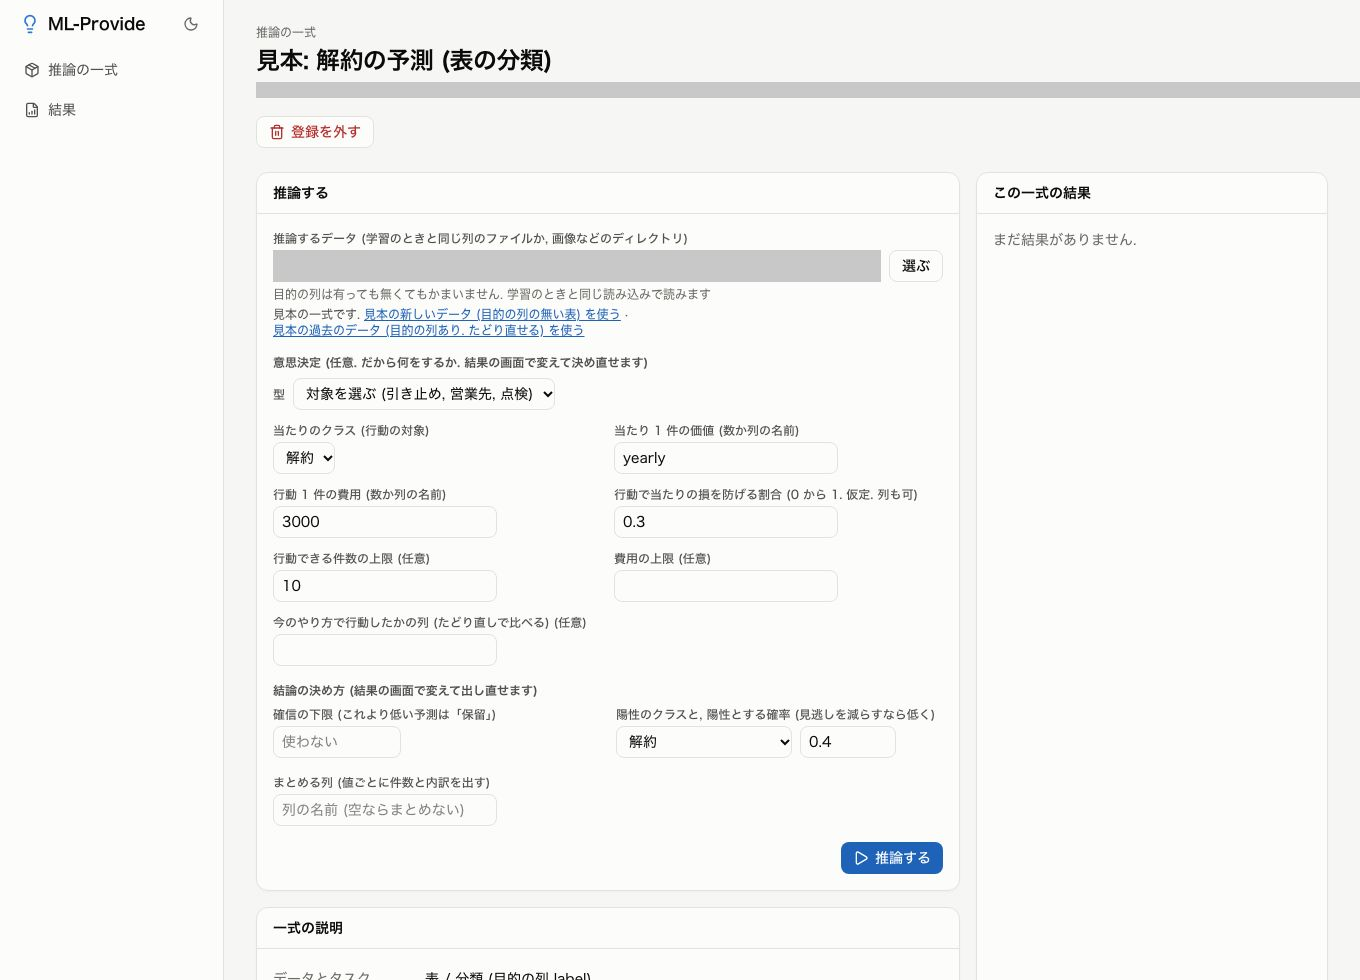
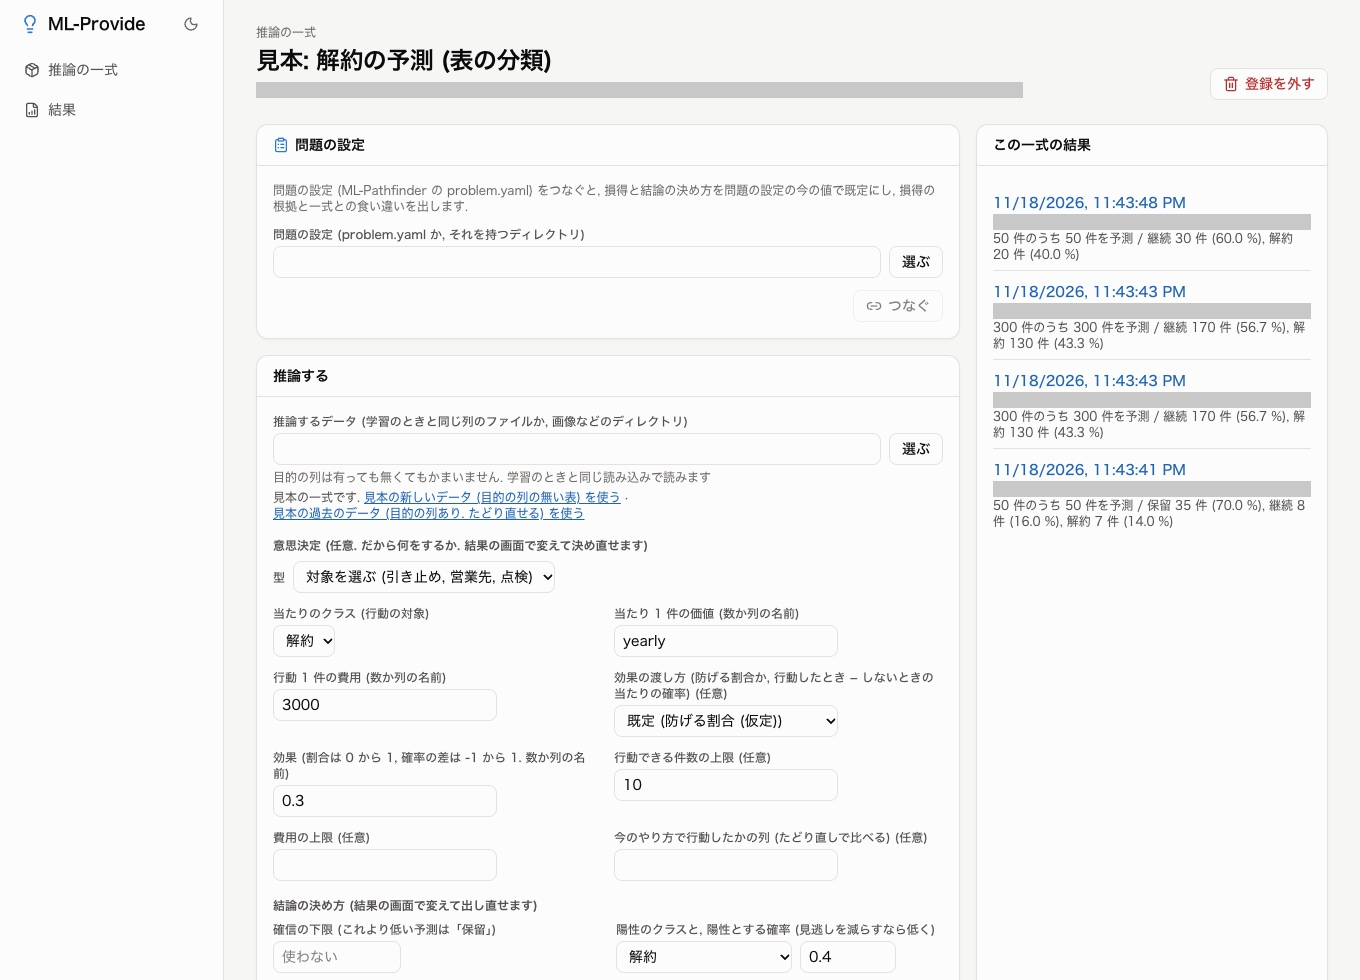
選択肢に無い既定値も選べる形で出し, 既定の選択肢の名前と使い方の画像を直す

diff --git a/frontend/src/features/results/DecisionEditor.tsx b/frontend/src/features/results/DecisionEditor.tsx
@@ -97,7 +97,16 @@ export function DecisionEditor({
                   }
                   className={`${field} w-56`}
                 >
-                  <option value="">{item.optional ? '既定' : '選ぶ'}</option>
+                  <option value="">
+                    {item.optional ? `既定 (${item.choices[0]?.label ?? ''})` : '選ぶ'}
+                  </option>
+                  {/* 既定値などの選択肢に無い値も出す (選び直せるように) */}
+                  {form.values[item.key] &&
+                    !item.choices.some((choice) => choice.value === form.values[item.key]) && (
+                      <option value={form.values[item.key]}>
+                        {form.values[item.key]} (知らない値)
+                      </option>
+                    )}
                   {item.choices.map((choice) => (
                     <option key={choice.value} value={choice.value}>
                       {choice.label}
